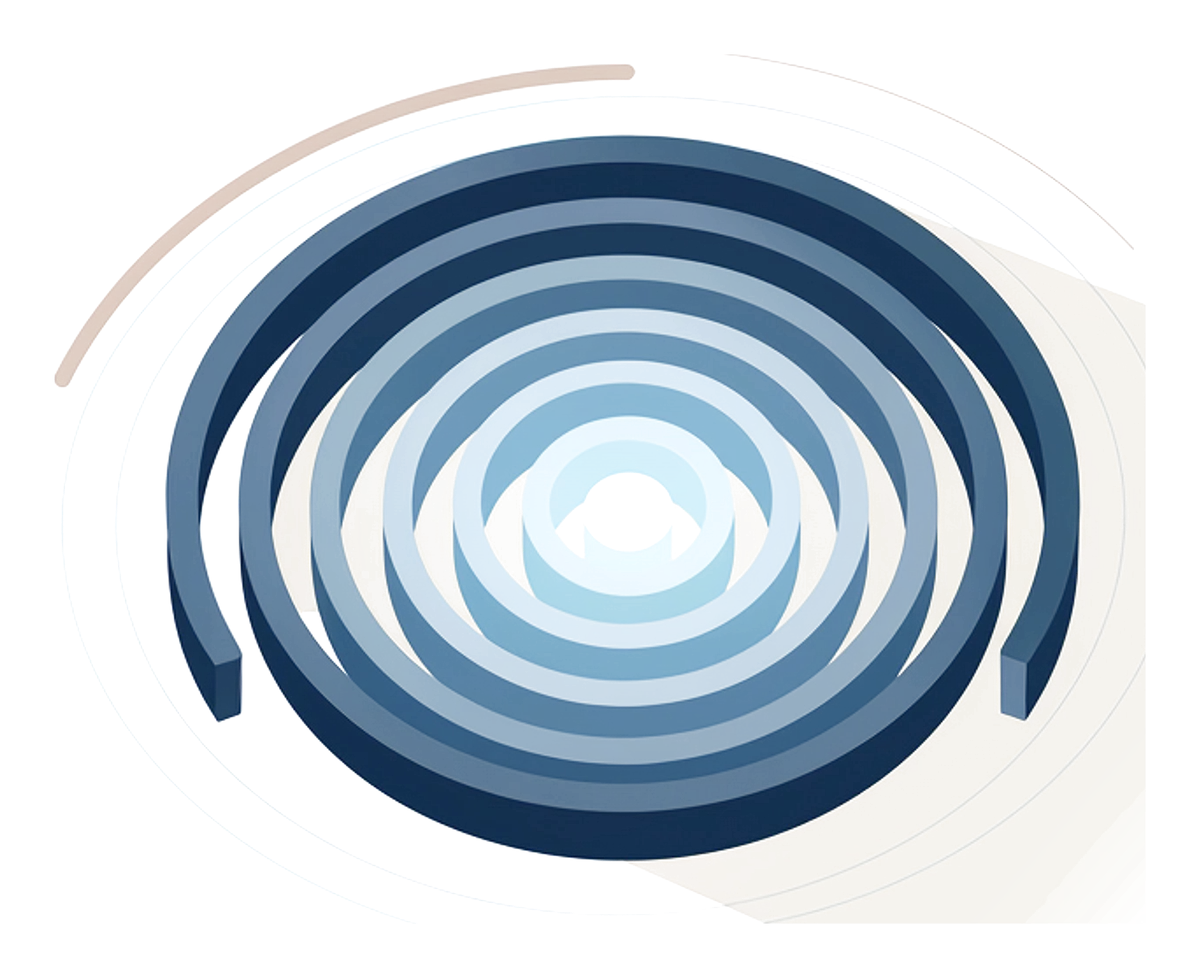
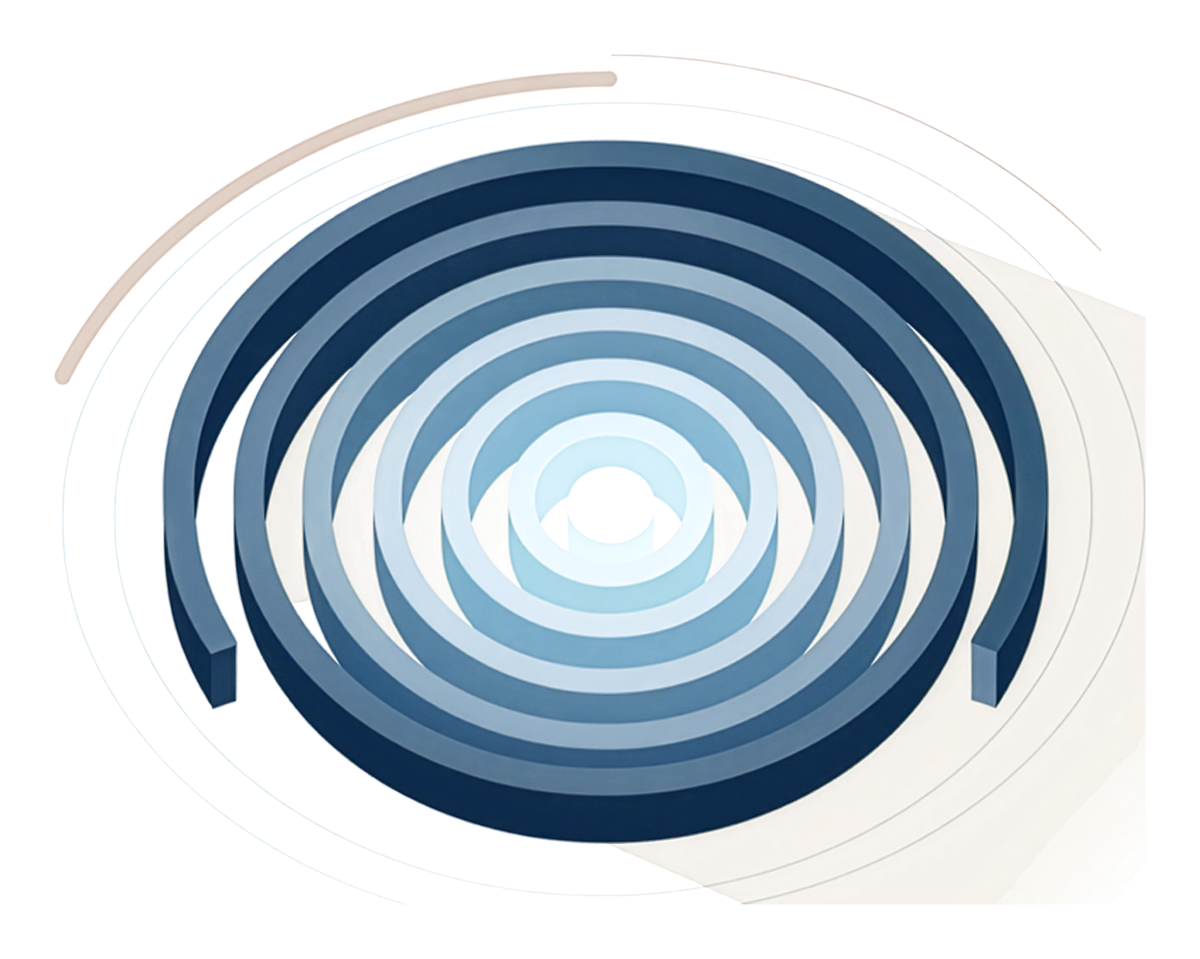
Converged Pulse hero rebuilt from a Firefly Upscaler 4x source
17 of 63 heroes are now Firefly-upscaled; the other 46 stay as local 4x enlargements, marked
"Firefly Upscaler pending" in their licence references, until Firefly's rate limit allows.

diff --git a/web/content/image-licences.ts b/web/content/image-licences.ts
@@ -577,7 +577,7 @@ export const imageLicences: ImageLicence[] = [
     file: "public/hero/service-converged-pulse.webp",
     source: "licensed-generative",
     provider: "Adobe Firefly",
-    reference: "firefly-image5-2026-11-26-spec63-17 (local 4x enlargement; Firefly Upscaler pending)",
+    reference: "firefly-image5-2026-11-26-spec63-17 (Firefly Upscaler 4x)",
     acquired: "2026-11-26",
     depicts: "Concentric navy and blue rings radiating evenly outward from a single bright core",
     aiGenerated: true,
